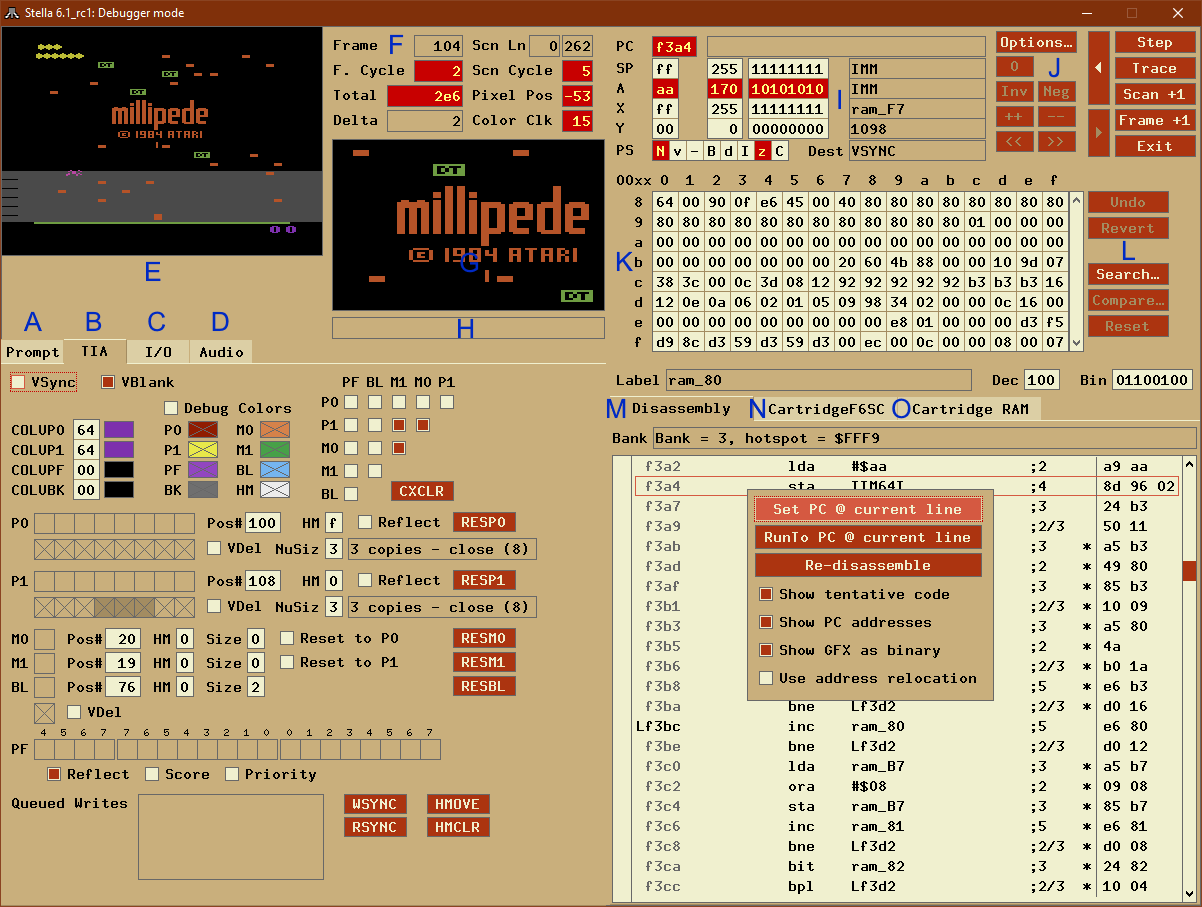
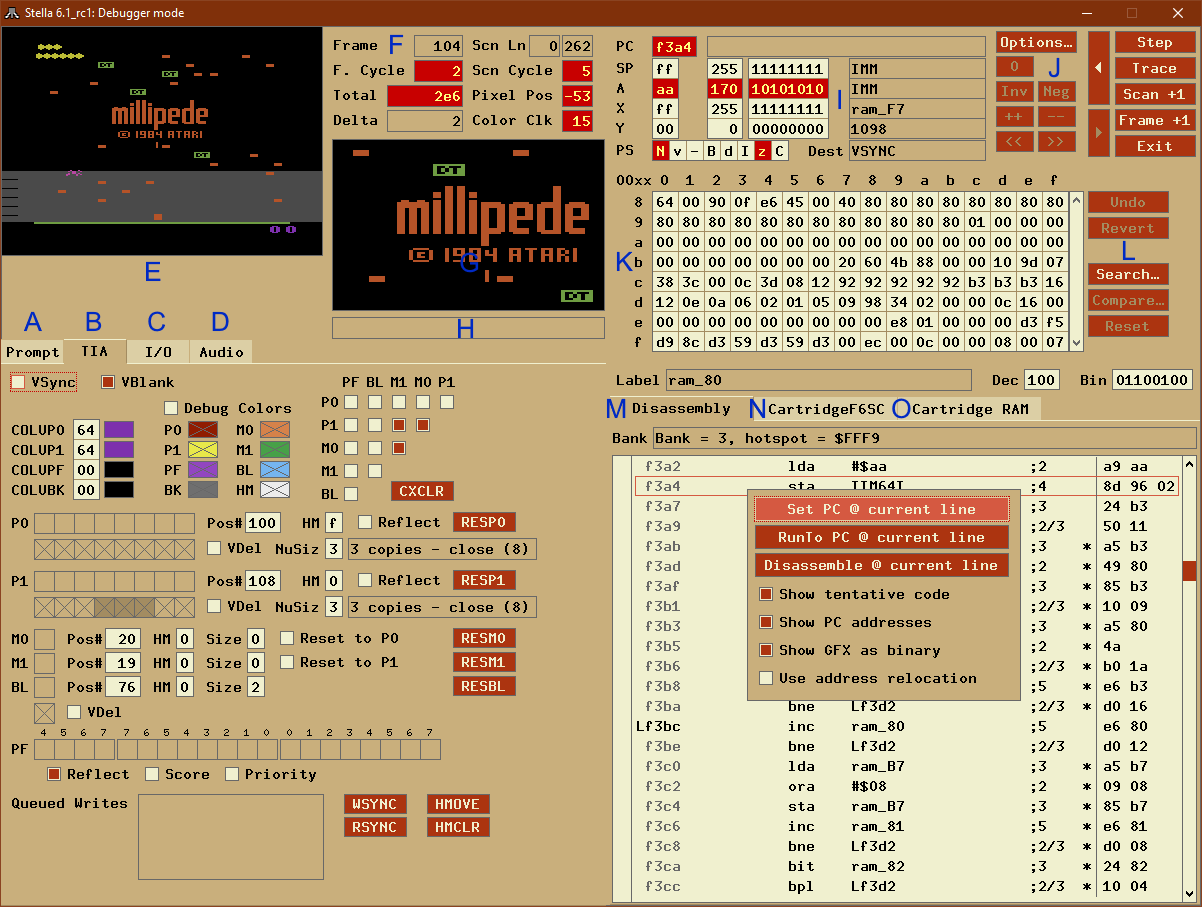
enhanced debugger option "Re-disassemble" into "Disassemble @ current line" (resolves #652)

Changed region(s): [[0.6464, 0.5248, 0.8619, 0.7718]]

diff --git a/docs/debugger.html b/docs/debugger.html
@@ -1496,13 +1496,13 @@ anywhere in the listing:</p>
 <p>The following options are available:</p>
 <ul>
 <li><b>Set PC @ current line</b>: Set the Program Counter to the address of the
-disassembly line where the mouse was clicked (highlighted in yellow).</li>
+disassembly line where the mouse was clicked.</li>
 
 <li><b>RunTo PC @ current line</b>: Single-step through code until the Program Counter
-matches the address of the disassembly line where the mouse was clicked (highlighted in yellow)</li>
+matches the address of the disassembly line where the mouse was clicked.</li>
 
-<li><b>Re-disassemble</b>: Self-explanatory; force the current bank to be
-disassembled, regardless of whether anything has changed.</li>
+<li><b>Disassemble @ current line</b>: Disassemble from the disassembly line where the mouse was clicked.
+This allows to fill gaps in the disassembly and is most useful for bankswitched ROMs.</li>
 
 <li><b>Show tentative code</b>: Allow Distella to do a static analysis/disassembly.</li>
 
